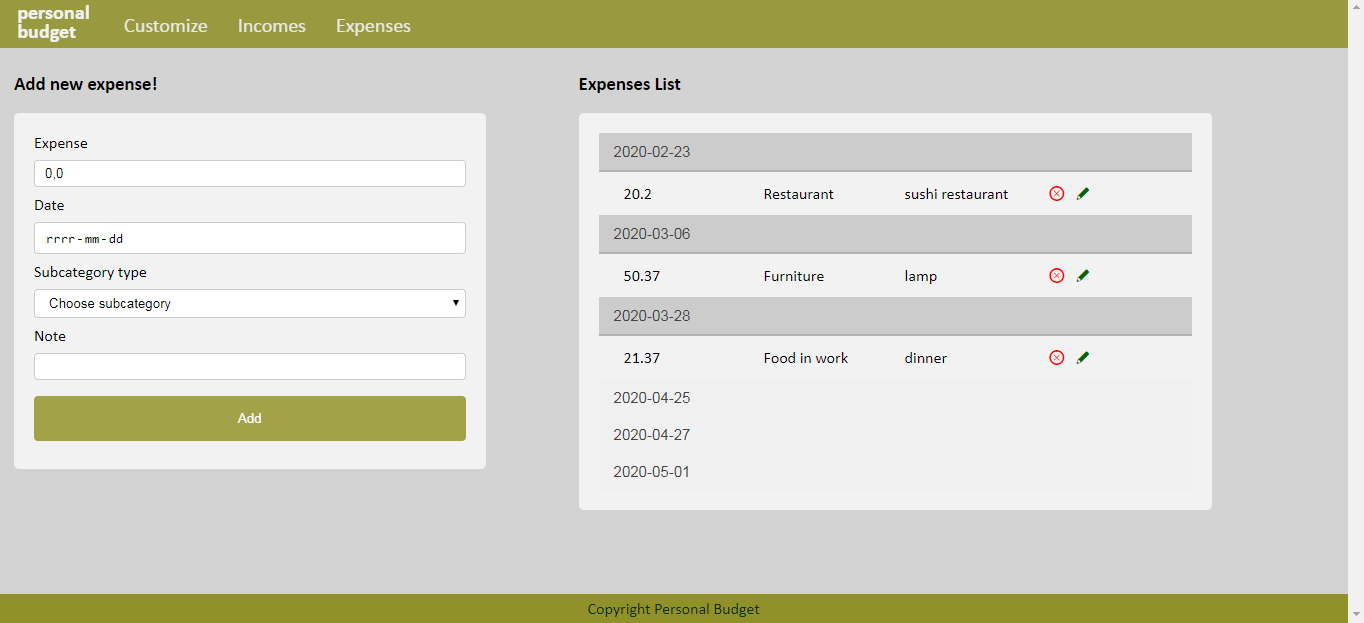
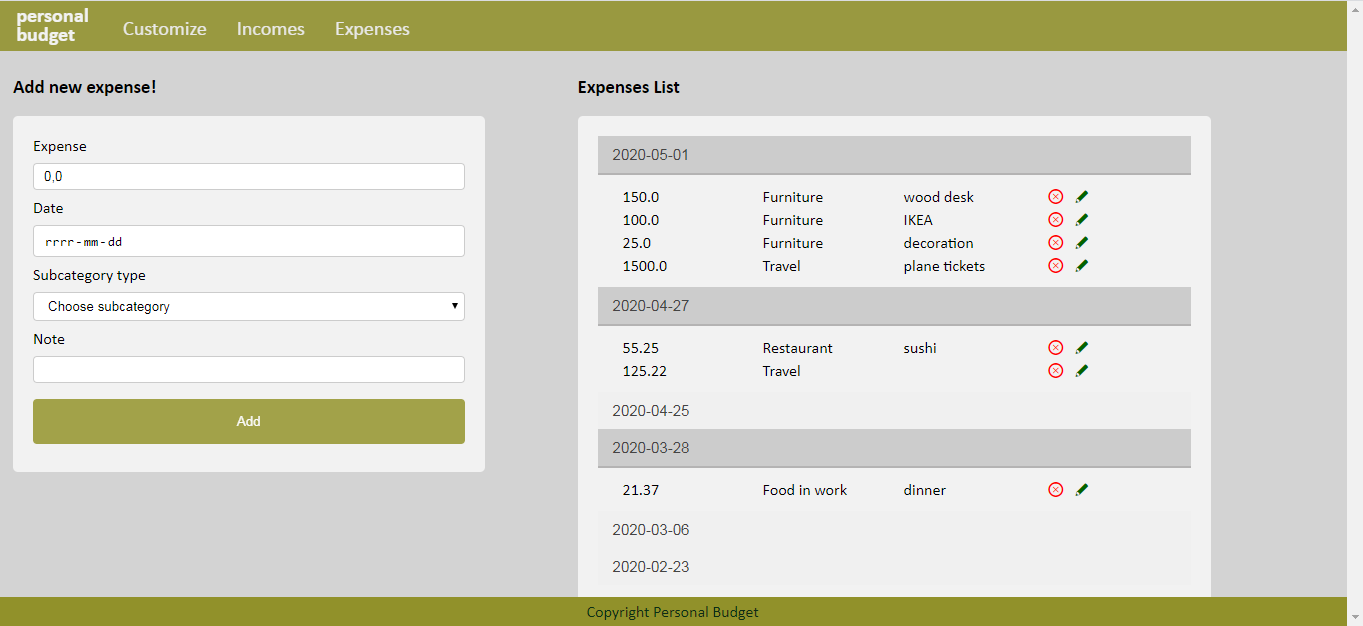
list expenses by date

diff --git a/src/main/java/com/company/budgetWebApp/service/IncomeService.java b/src/main/java/com/company/budgetWebApp/service/IncomeService.java
@@ -1,15 +1,12 @@
 package com.company.budgetWebApp.service;
 
-import com.company.budgetWebApp.dao.entity.CategoryEntity;
 import com.company.budgetWebApp.dao.entity.IncomeEntity;
 import com.company.budgetWebApp.dao.repository.IncomeRepository;
 import com.company.budgetWebApp.service.dto.IncomeDTO;
 import com.company.budgetWebApp.service.mapper.IncomeMapper;
 import org.springframework.stereotype.Service;
 
-import java.util.Comparator;
-import java.util.List;
-import java.util.Optional;
+import java.util.*;
 import java.util.stream.Collectors;
 
 @Service
@@ -23,11 +20,11 @@ public class IncomeService {
         this.incomeMapper = incomeMapper;
     }
 
-   public IncomeEntity mapIncomeDtoToEntity(IncomeDTO incomeDTO) {
+    public IncomeEntity mapIncomeDtoToEntity(IncomeDTO incomeDTO) {
         return incomeMapper.incomeDtoToEntity(incomeDTO);
    }
 
-   public IncomeDTO mapIncomeEntityToDto(IncomeEntity incomeEntity) {
+    public IncomeDTO mapIncomeEntityToDto(IncomeEntity incomeEntity) {
         return incomeMapper.incomeEntityToDto(incomeEntity);
     }
 
@@ -41,4 +38,17 @@ public class IncomeService {
     public IncomeEntity save(IncomeEntity incomeEntity) { return incomeRepository.save(incomeEntity); }
 
     public void deleteById(Long id) { incomeRepository.deleteById(id); }
+
+    public Map<Date, List<IncomeEntity>> findAllIncomesForDate() {
+        List<Date> dates = incomeRepository.findDatesFromIncomes().stream().sorted().collect(Collectors.toList());
+        Collections.sort(dates, Collections.reverseOrder());
+        List<IncomeEntity> incomesByDate;
+        Map<Date, List<IncomeEntity>> listIncomesForDate = new LinkedHashMap<>();
+
+        for (Date date : dates) {
+            incomesByDate = incomeRepository.findIncomesByDate(date);
+            listIncomesForDate.put(date, incomesByDate);
+        }
+        return listIncomesForDate;
+    }
 }

diff --git a/src/main/java/com/company/budgetWebApp/service/ExpenseService.java b/src/main/java/com/company/budgetWebApp/service/ExpenseService.java
@@ -1,16 +1,13 @@
 package com.company.budgetWebApp.service;
 
 import com.company.budgetWebApp.dao.entity.ExpenseEntity;
-import com.company.budgetWebApp.dao.entity.IncomeEntity;
 import com.company.budgetWebApp.dao.repository.ExpenseRepository;
 import com.company.budgetWebApp.service.dto.ExpenseDTO;
 import com.company.budgetWebApp.service.mapper.ExpenseMapper;
 import org.springframework.beans.factory.annotation.Autowired;
 import org.springframework.stereotype.Service;
 
-import java.util.Comparator;
-import java.util.List;
-import java.util.Optional;
+import java.util.*;
 import java.util.stream.Collectors;
 
 @Service
@@ -40,7 +37,8 @@ public class ExpenseService {
     public List<ExpenseEntity> findAll() {
         return expenseRepository.findAll().stream()
                 .sorted(Comparator.comparing(ExpenseEntity::getDate))
-                .collect(Collectors.toList()); }
+                .collect(Collectors.toList());
+    }
 
     public ExpenseEntity save(ExpenseEntity expense) {
         return expenseRepository.save(expense);
@@ -50,4 +48,16 @@ public class ExpenseService {
         expenseRepository.deleteById(id);
     }
 
+    public Map<Date, List<ExpenseEntity>> findAllExpensesForDate() {
+        List<Date> dates = expenseRepository.findDatesFromExpenses().stream().sorted().collect(Collectors.toList());
+        Collections.sort(dates, Collections.reverseOrder());
+        List<ExpenseEntity> expensesByDate;
+        Map<Date, List<ExpenseEntity>> listExpensesForDate = new LinkedHashMap<>();
+
+        for (Date date : dates) {
+            expensesByDate = expenseRepository.findExpensesByDate(date);
+            listExpensesForDate.put(date, expensesByDate);
+        }
+        return listExpensesForDate;
+    }
 }

diff --git a/src/main/java/com/company/budgetWebApp/dao/repository/ExpenseRepository.java b/src/main/java/com/company/budgetWebApp/dao/repository/ExpenseRepository.java
@@ -1,10 +1,21 @@
 package com.company.budgetWebApp.dao.repository;
 
 import com.company.budgetWebApp.dao.entity.ExpenseEntity;
+import com.company.budgetWebApp.dao.entity.IncomeEntity;
 import org.springframework.data.jpa.repository.JpaRepository;
+import org.springframework.data.jpa.repository.Query;
 import org.springframework.stereotype.Repository;
+
+import java.util.Date;
+import java.util.List;
 
 @Repository
 public interface ExpenseRepository extends JpaRepository<ExpenseEntity, Long> {
 
+    @Query(value = "SELECT * FROM Expenses JOIN Subcategories On Expenses.subcategory_id = Subcategories.id " +
+            "WHERE date = ?1 ORDER BY Subcategories.name, Expenses.id", nativeQuery = true)
+    List<ExpenseEntity> findExpensesByDate(Date date);
+
+    @Query(value = "SELECT date FROM Expenses ORDER BY date", nativeQuery = true)
+    List<Date> findDatesFromExpenses();
 }

diff --git a/src/main/java/com/company/budgetWebApp/dao/repository/IncomeRepository.java b/src/main/java/com/company/budgetWebApp/dao/repository/IncomeRepository.java
@@ -2,8 +2,19 @@ package com.company.budgetWebApp.dao.repository;
 
 import com.company.budgetWebApp.dao.entity.IncomeEntity;
 import org.springframework.data.jpa.repository.JpaRepository;
+import org.springframework.data.jpa.repository.Query;
 import org.springframework.stereotype.Repository;
+
+import java.util.Date;
+import java.util.List;
 
 @Repository
 public interface IncomeRepository extends JpaRepository<IncomeEntity, Long> {
+
+    @Query(value = "SELECT * FROM Incomes JOIN Subcategories On Incomes.subcategory_id = Subcategories.id " +
+            "WHERE date = ?1 ORDER BY Subcategories.name, Incomes.id", nativeQuery = true)
+    List<IncomeEntity> findIncomesByDate(Date date);
+
+    @Query(value = "SELECT date FROM Incomes ORDER BY date", nativeQuery = true)
+    List<Date> findDatesFromIncomes();
 }

diff --git a/src/main/java/com/company/budgetWebApp/api/ExpenseController.java b/src/main/java/com/company/budgetWebApp/api/ExpenseController.java
@@ -29,7 +29,7 @@ public class ExpenseController {
 
     @GetMapping("/list")
     public String getExpenses(Model model) {
-        model.addAttribute("expenses", expenseService.findAll());
+        model.addAttribute("expenses", expenseService.findAllExpensesForDate());
         model.addAttribute("newExpenseDto", new ExpenseDTO());
         return "appExpensesList";
     }
@@ -45,7 +45,7 @@ public class ExpenseController {
 
     @ModelAttribute("subcategories")
     private List<SubcategoryDTO> fetchSubcategoriesToDto() {
-        return subcategoryService.mapSubcategoryListEntityToDto(subcategoryService.findAll());
+        return subcategoryService.mapSubcategoryListEntityToDto(subcategoryService.findSubcategoriesExpenses());
     }
 
     @GetMapping("/delete/{id}")

diff --git a/src/main/java/com/company/budgetWebApp/api/IncomeController.java b/src/main/java/com/company/budgetWebApp/api/IncomeController.java
@@ -29,7 +29,7 @@ public class IncomeController {
 
     @GetMapping("/list")
     public String getIncomes(Model model) {
-        model.addAttribute("incomes", incomeService.findAll());
+        model.addAttribute("incomes", incomeService.findAllIncomesForDate());
         model.addAttribute("newIncomeDto", new IncomeDTO());
         return "appIncomesList";
     }

diff --git a/README.md b/README.md
@@ -34,7 +34,7 @@ Project is created with:
 
 * Bootstrap 4
 
-### Fuctionality
+### Functionality
 
 ---
 
